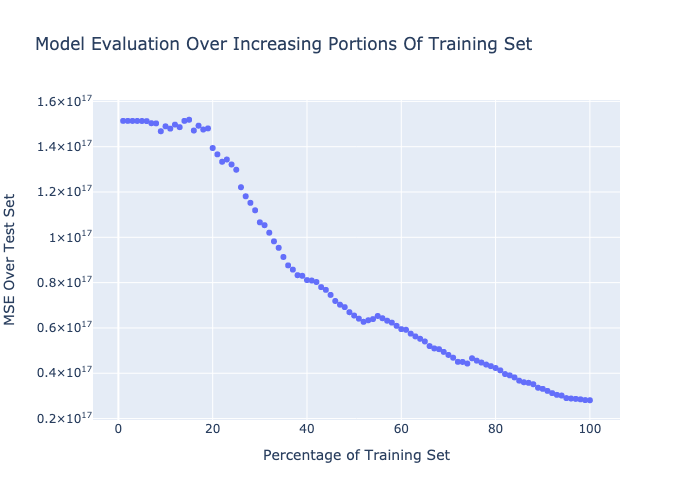
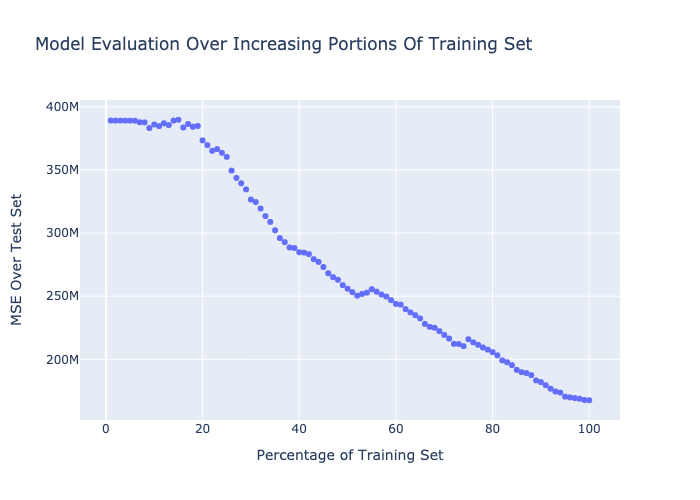
Include rmse plot

diff --git a/Scripts/init_our_model.py b/Scripts/init_our_model.py
@@ -5,10 +5,30 @@ from regression import predict
 import plotly.graph_objects as go
 import numpy as np
 import plotly.express as px
-
+import matplotlib.pyplot as plt
 
 def load_y(csv_file, colname):
     return pd.read_csv(csv_file)[colname]
+
+
+def plot_rmse():
+    # Plot rmse for increasing amount of samples
+    results = []
+    for i in range(1, 101):
+        linear_model = LinearRegression()
+        X, y_rev, y_votes = basic_load_data("../Data/training_set.csv")
+        n = max(round(X.shape[0] * (i / 100)), 1)
+        linear_model.fit(X[:n], y_rev[:n])
+
+        X_test, y_test_rev, y_test_votes = basic_load_data("../Data/test_set.csv")
+        y_pred = linear_model.predict(X_test)
+        results.append(rmse(y_test_rev, y_pred))
+
+    fig = go.Figure(go.Scatter(x=list(range(1, len(results) + 1)), y=results, mode="markers"),
+                    layout=go.Layout(title="Model Evaluation Over Increasing Portions Of Training Set",
+                                     xaxis=dict(title="Percentage of Training Set"),
+                                     yaxis=dict(title="MSE Over Test Set")))
+    fig.write_image("../Figures/mse.over.training.percentage.png")
 
 
 def init_our_model():
@@ -30,27 +50,31 @@ def init_our_model():
 
     # y = load_y("../Data/training_set.csv", 'vote_average')
     # linear_model_votes.fit(X, y_votes)
-
-    # pickle.dump(obj=linear_model_revenue, file="../Data/our_model_revenue.bi")
-
+    outfile = open("../Data/our_model_revenue.bi", 'wb')
+    pickle.dump(obj=linear_model_revenue, file=outfile)
+    outfile.close()
     # plot_singular_values(X)
-
-    results = []
-    for i in range(1, 101):
-        linear_model = LinearRegression()
-        X, y_rev, y_votes = basic_load_data("../Data/training_set.csv")
-        n = max(round(X.shape[0] * (i / 100)), 1)
-        linear_model.fit(X[:n], y_rev[:n])
-
-        X_test, y_test_rev, y_test_votes = basic_load_data("../Data/test_set.csv")
-        y_pred = linear_model.predict(X_test)
-        results.append(rmse(y_test_rev, y_pred))
-
-    fig = go.Figure(go.Scatter(x=list(range(1, len(results) + 1)), y=results, mode="markers"),
-                    layout=go.Layout(title="Model Evaluation Over Increasing Portions Of Training Set",
-                                     xaxis=dict(title="Percentage of Training Set"),
-                                     yaxis=dict(title="MSE Over Test Set")))
-    fig.write_image("../Figures/mse.over.training.percentage.png")
+    # resample with replacement each row
+    # n_boots = 10
+    # weights = np.array((n_boots, X.shape[1]))
+    # n_points = X.shape[0]
+    # plt.figure()
+    # for i in range(n_boots):
+    #     # sample the rows, same size, with replacement
+    #     X, y_rev, y_votes = basic_load_data("../Data/training_set.csv")
+    #     X_train = X.sample(n=n_points, replace=True)
+    #     y_train = y_rev[X.index]
+    #     # fit a linear regression
+    #     linear_model = LinearRegression()
+    #     results_temp = linear_model.fit(X_train, y_train)
+    #
+    #     # append coefficients
+    #     weights[i] = results_temp
+    #
+    #     # plot a greyed out line
+    #     # y_pred_temp = linear_model.predict(basic_load_data("../Data/test_set.csv"))
+    #     # linear_model.coef_ = np.mean(weights[:i, :])
+    #
     return linear_model_revenue
 
 
@@ -87,6 +111,7 @@ def feature_evaluation(X, y):
 
 
 if __name__ == '__main__':
+    plot_rmse()
     model_revenue = init_our_model()
     # X = load_data("../Data/test_set.csv")
     # y = load_y("../Data/test_set.csv", "revenue")

diff --git a/Scripts/regression.py b/Scripts/regression.py
@@ -16,7 +16,10 @@ def predict(csv_file):
     :return: a tuple - (a python list with the movies revenues, a python list with the movies avg_votes)
     """
     X = load_data(csv_file)
-    return pickle.load("our_model.bin").predict(X)
+    infile = open("../Data/our_model_revenue.bi", 'rb')
+    model = pickle.load(infile)
+    infile.close()
+    return model.predict(X)
 
 
 def predict_revenue(w):
